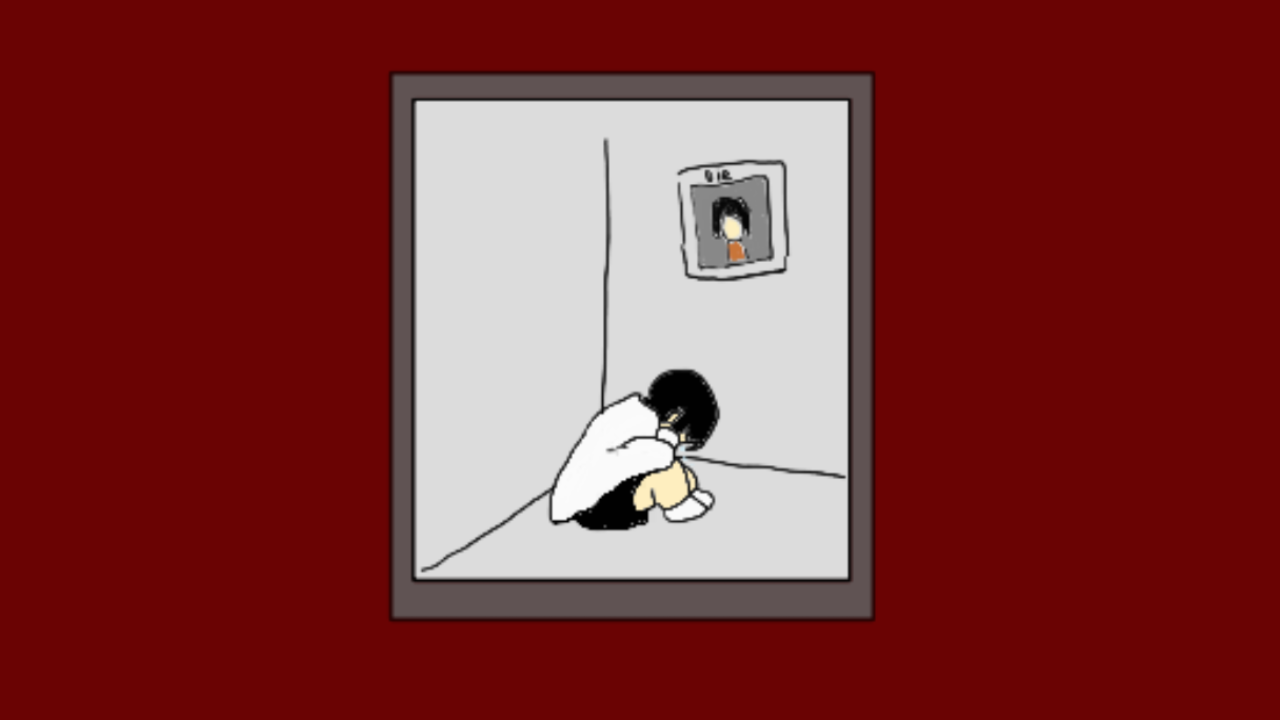
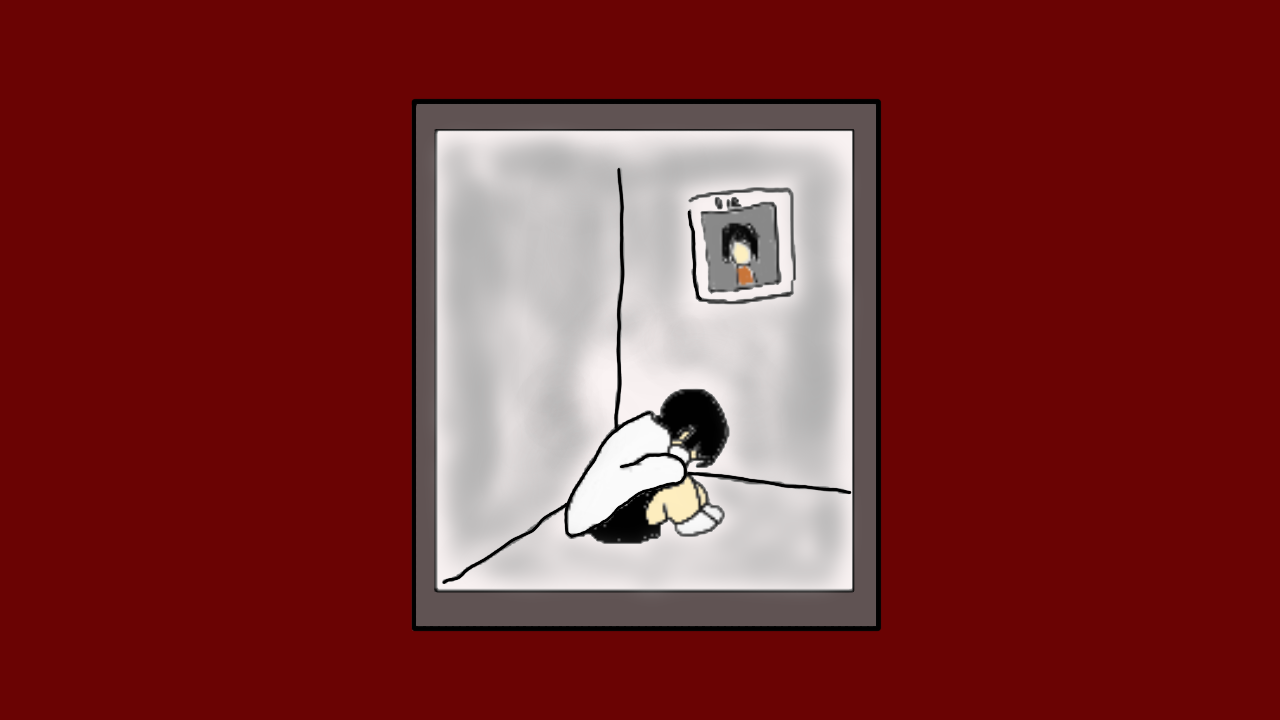
modified the match game with suggestion from the lecturer adding new photo and added more possible answer to the answer list

Changed region(s): [[0.2812, 0.0917, 0.6875, 0.8861]]

diff --git a/match.py b/match.py
@@ -33,12 +33,39 @@ boyfriendinter_img = pygame.image.load("Photo used/Match/boyfriendinter.png")
 boyfriend_img = pygame.image.load("Photo used/Match/boyfriend.png")
 dogownerinter_img = pygame.image.load("Photo used/Match/dogownerinter.png")
 dogowner_img = pygame.image.load("Photo used/Match/dogowner.png")
+back_img = pygame.image.load("asset/image/return.png")
+music_img = pygame.image.load("asset/image/m.png")
+mute_img = pygame.image.load("asset/image/mm.png")
 
 #Interface buttons
 kidsinter_btn = Button(260, 245, image=kidsinter_img)
 boyfriendinter_btn = Button(646, 236, image=boyfriendinter_img)
 dogownerinter_btn = Button(1040, 236, image=dogownerinter_img)
-back_btn = Button(50, 50, text_input="BACK", font=common.arcade(30), base_color="Black", hovering_color="Gray")
+back_btn = Button(50, 50, image=back_img,scale=0.27)
+music_button = Button(1230, 50, image=music_img, scale=0.35)
+mute_button = Button(1230, 50, image=mute_img, scale=0.35, visible=False)
+
+def onoffm():
+    for event in pygame.event.get():
+        if event.type == pygame.QUIT:
+            common.running = False
+            return True
+        if event.type == pygame.MOUSEBUTTONDOWN:
+            if common.music_button.visible and common.music_button.checkforinput(pygame.mouse.get_pos()):
+                common.click.play()
+                common.music_on_off()
+                return False
+            elif common.mute_button.visible and common.mute_button.checkforinput(pygame.mouse.get_pos()):
+                common.click.play()
+                common.music_on_off()
+                return False
+    return False
+
+def updatem(screen):
+    if common.music_button.visible:
+        common.music_button.update(screen)
+    if common.mute_button.visible:
+        common.mute_button.update(screen)
 
 class DraggableItem:
     def __init__(self, x, y, image, correct_gallery):
@@ -96,11 +123,14 @@ class RELICSITEM:
 
         # Drag images
         self.interface_bg = pygame.image.load("Photo used/Match/interfaceview.png")
+        self.start_btn_img = pygame.image.load("Photo used/Match/itemdragstart.png")
         self.envelop_img = pygame.image.load("Photo used/Match/envelop.png")
         self.flower_img = pygame.image.load("Photo used/Match/flower.png")
         self.bonepresent_img = pygame.image.load("Photo used/Match/bonepresent.png")
-        self.start_btn_img = pygame.image.load("Photo used/Match/itemdragstart.png")
-        
+        self.kids_correct_img = pygame.image.load("Photo used/Match/kidscorrect.png")
+        self.boyfriend_correct_img = pygame.image.load("Photo used/Match/boyfriendcorrect.png")
+        self.dogowner_correct_img = pygame.image.load("Photo used/Match/dogownercorrect.png")
+
         # Drag buttons
         self.start_btn = Button(1040, 590, image=self.start_btn_img)
 
@@ -113,15 +143,29 @@ class RELICSITEM:
 
     def draw(self):
         self.screen.blit(self.interface_bg, (0, 0))
-        kidsinter_btn.update(self.screen)
-        boyfriendinter_btn.update(self.screen)
-        dogownerinter_btn.update(self.screen)
+    
+        if not self.items[0].placed_correctly:
+            kidsinter_btn.update(self.screen)
+        else:
+            self.screen.blit(self.kids_correct_img, kidsinter_btn.rect)
+
+        if not self.items[1].placed_correctly:
+            boyfriendinter_btn.update(self.screen)
+        else:
+            self.screen.blit(self.boyfriend_correct_img, boyfriendinter_btn.rect)
+
+        if not self.items[2].placed_correctly:
+            dogownerinter_btn.update(self.screen)
+        else:
+            self.screen.blit(self.dogowner_correct_img, dogownerinter_btn.rect)
+        
         if self.game_started:
             for item in self.items:
                 item.draw(self.screen)
         else:
             self.start_btn.update(self.screen)
         back_btn.update(self.screen)
+
 
     def update(self, event_list):
         self.draw()
@@ -200,6 +244,12 @@ class EmotionGame:
 
         self.hint_btn = Button(screen.get_width() - 150, 50, text_input="HINT", font=common.arcade(30), base_color="Black", hovering_color="Gray")
 
+        self.emotions = {
+            "sad": ["sadness", "The little boy's mother died"],
+            "angry": ["angriness", "Her boyfriend is late without any reason"],
+            "happy": ["happiness", "The dog goes for a walk with its favorite owner"]
+        }
+
     def draw_emotion_buttons(self, screen):
         for emotion, btn in zip(["sad", "angry", "happy"], [self.kidsemo_btn, self.boyfriendemo_btn, self.dogowneremo_btn]):
             if emotion not in self.completed_emotions:
@@ -212,15 +262,12 @@ class EmotionGame:
     def check_emotion_button_click(self, pos):
         if self.kidsemo_btn.checkforinput(pos) and "sad" not in self.completed_emotions:
             self.current_emotion = "sad"
-            print(f"Set current_emotion to: {self.current_emotion}") 
             return True
         elif self.boyfriendemo_btn.checkforinput(pos) and "angry" not in self.completed_emotions:
             self.current_emotion = "angry"
-            print(f"Set current_emotion to: {self.current_emotion}") 
             return True
         elif self.dogowneremo_btn.checkforinput(pos) and "happy" not in self.completed_emotions:
             self.current_emotion = "happy"
-            print(f"Set current_emotion to: {self.current_emotion}") 
             return True
         return False
 
@@ -256,15 +303,16 @@ class EmotionGame:
             self.hint_count += 1
             self.total_hint_count += 1
             if self.hint_count == 1:
-                self.current_hint = f"The answer has {len(self.current_emotion)} letters."
+                self.current_hint = self.emotions[self.current_emotion][1]
             else:
-                self.current_hint = f"The first letter is '{self.current_emotion[0]}'."
+                self.current_hint = f"The first letter is '{self.emotions[self.current_emotion][0][0]}'."
         else:
-            self.current_hint = "No more hints available."
+            self.current_hint = f"No more hints available. You have used {self.total_hint_count} hints in total."
         return self.current_hint
 
     def check_emotion_answer(self, user_input):
-        return user_input.lower().strip() == self.current_emotion.lower().strip()
+        correct_answers = [self.current_emotion, self.emotions[self.current_emotion][0]]
+        return user_input.lower().strip() in [ans.lower() for ans in correct_answers]
     
     def show_message(self, message):
         self.screen.fill((255, 255, 255))
@@ -393,6 +441,14 @@ def match_main():
                     if back_btn.checkforinput(event.pos):
                         current_state = MAIN_MENU
 
+                # Add this block to handle music button clicks
+                if common.music_button.visible and common.music_button.checkforinput(event.pos):
+                    common.click.play()
+                    common.music_on_off()
+                elif common.mute_button.visible and common.mute_button.checkforinput(event.pos):
+                    common.click.play()
+                    common.music_on_off()
+
         if current_state == MAIN_MENU:
             draw_main_menu(screen, drag_game, emotion_game)
         elif current_state == KIDS_VIEW:
@@ -414,15 +470,19 @@ def match_main():
         elif current_state == FINAL_RESULT:
             draw_final_result(screen, emotion_game)
 
+        updatem(screen)
+
         pygame.display.flip()
         clock.tick(60)
 
     pygame.quit()
     sys.exit()
 
+common.music_on_off()
+
 match_main()
 
-#For Debuging Use
+#Debuging Use
 #print(f"Before check: user_text='{self.user_text}', current_emotion='{self.current_emotion}'")
 #print(f"Set current_emotion to: {self.current_emotion}") 
 #print(f"Checking: user input '{user_input}' against '{self.current_emotion}'")
